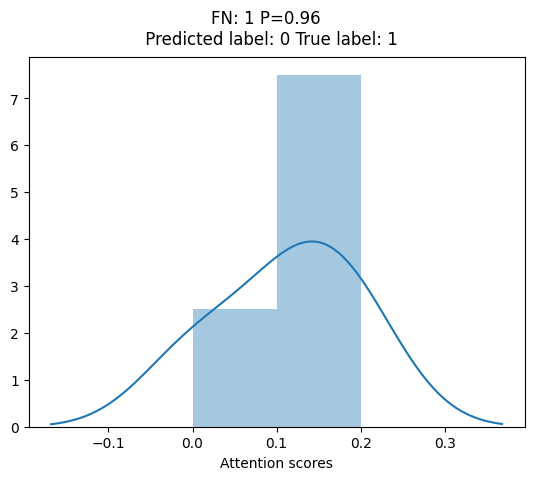
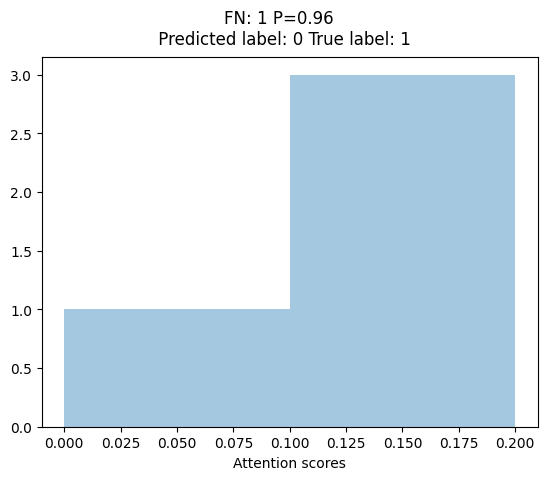
remove kde

diff --git a/hi-ml-cpath/src/health_cpath/utils/viz_utils.py b/hi-ml-cpath/src/health_cpath/utils/viz_utils.py
@@ -232,7 +232,7 @@ def plot_attention_histogram(case: str, slide_node: SlideNode, results: Dict[Res
     slide_idx = slide_ids.index(slide_node.slide_id)
     attentions = results[ResultsKey.BAG_ATTN][slide_idx]
     fig, ax = plt.subplots()
-    ax = sns.distplot(attentions.cpu().numpy().reshape(-1))
+    ax = sns.distplot(attentions.cpu().numpy().reshape(-1), kde=False)
     ax.set_xlabel("Attention scores")
     fig.suptitle(_get_histo_plot_title(case, slide_node))
     return fig
